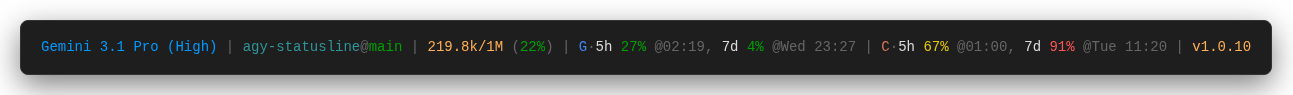
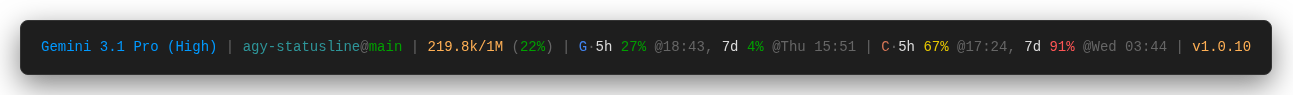
chore: add missing segments to docs, regenerate screenshots, and cleanup temp scripts

diff --git a/themes/README.md b/themes/README.md
@@ -115,7 +115,7 @@ export default {
 #### Available Built-in Segments
 
 You can mix and match any of these pre-built strings in your `segments` array:
-`"model"`, `"cwd_branch"`, `"cwd"`, `"branch"`, `"tokens"`, `"quota_gemini"`, `"quota_anthropic"`, `"quota_openai"`, `"version"`, `"extras"`, `"agent_state"`, `"plan_tier"`, `"product"`, `"email"`, `"email_masked"`, `"artifact_count"`, `"sandbox"`, `"exceeds_200k"`.
+`"model"`, `"cwd_branch"`, `"cwd"`, `"branch"`, `"tokens"`, `"output_tokens"`, `"quota_gemini"`, `"quota_anthropic"`, `"quota_openai"`, `"version"`, `"extras"`, `"agent_state"`, `"plan_tier"`, `"product"`, `"session_id"`, `"session_id_short"`, `"email"`, `"email_masked"`, `"artifact_count"`, `"sandbox"`, `"exceeds_200k"`.
 
 ### Managing Your Themes
 